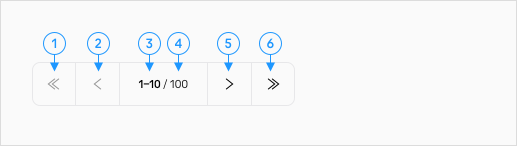
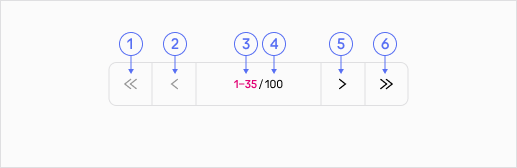
docs: update header text

diff --git a/packages/storybook-vue/stories/components/pagination/pagination_de.md b/packages/storybook-vue/stories/components/pagination/pagination_de.md
@@ -21,7 +21,9 @@ Die Paginierung ist ein interaktives Element, mit dem Nutzer\*innen durch mehrer
 
 ## Varianten
 
-![Image Name](assets/3_components/pagination/Basic-types-de.png)
+![Image Name](assets/3_components/pagination/pagination-de.png)
+
+![Image Name](assets/3_components/pagination/pagination-mobile-de.png)
 
 ## Elemente
 

diff --git a/packages/storybook-vue/stories/components/pagination/pagination.md b/packages/storybook-vue/stories/components/pagination/pagination.md
@@ -23,7 +23,9 @@ The default number displayed will vary depending on the context.
 
 ## Variants
 
-![Image Name](assets/3_components/pagination/Basic-types-en.png)
+![Image Name](assets/3_components/pagination/pagination-en.png)
+
+![Image Name](assets/3_components/pagination/pagination-mobile-en.png)
 
 ## Elements
 
